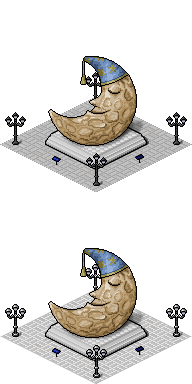
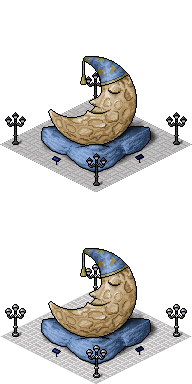
CHG: Moonmonument got snugly pillow

Changed region(s): [[0.1875, 0.8125, 0.8438, 0.9688], [0.1875, 0.3125, 0.8438, 0.4688]]

diff --git a/LICENSE.md b/LICENSE.md
@@ -1,3 +1,20 @@
+# Human-readable summary
+
+## CC BY-SA 3.0
+You are free to
+### share
+- copy and redistribute the material in any medium or format
+### adapt
+- remix, transform, and build upon the material for any purpose, even commercially.
+
+under the following terms:
+### Attribution
+- You must give appropriate credit, provide a link to the license, and indicate if changes were made. You may do so in any reasonable manner, but not in any way that suggests the licensor endorses you or your use.
+### ShareAlike
+- If you remix, transform, or build upon the material, you must distribute your contributions under the same license as the original.
+    
+
+
 # License
 
 THE WORK (AS DEFINED BELOW) IS PROVIDED UNDER THE TERMS OF THIS CREATIVE COMMONS PUBLIC LICENSE ("CCPL" OR "LICENSE"). THE WORK IS PROTECTED BY COPYRIGHT AND/OR OTHER APPLICABLE LAW. ANY USE OF THE WORK OTHER THAN AS AUTHORIZED UNDER THIS LICENSE OR COPYRIGHT LAW IS PROHIBITED.
@@ -6,16 +23,16 @@ BY EXERCISING ANY RIGHTS TO THE WORK PROVIDED HERE, YOU ACCEPT AND AGREE TO BE B
 
 ## 1. Definitions
 
-"Adaptation" means a work based upon the Work, or upon the Work and other pre-existing works, such as a translation, adaptation, derivative work, arrangement of music or other alterations of a literary or artistic work, or phonogram or performance and includes cinematographic adaptations or any other form in which the Work may be recast, transformed, or adapted including in any form recognizably derived from the original, except that a work that constitutes a Collection will not be considered an Adaptation for the purpose of this License. For the avoidance of doubt, where the Work is a musical work, performance or phonogram, the synchronization of the Work in timed-relation with a moving image ("synching") will be considered an Adaptation for the purpose of this License.
-"Collection" means a collection of literary or artistic works, such as encyclopedias and anthologies, or performances, phonograms or broadcasts, or other works or subject matter other than works listed in Section 1(g) below, which, by reason of the selection and arrangement of their contents, constitute intellectual creations, in which the Work is included in its entirety in unmodified form along with one or more other contributions, each constituting separate and independent works in themselves, which together are assembled into a collective whole. A work that constitutes a Collection will not be considered an Adaptation (as defined above) for the purposes of this License.
-"Distribute" means to make available to the public the original and copies of the Work or Adaptation, as appropriate, through sale or other transfer of ownership.
-"License Elements" means the following high-level license attributes as selected by Licensor and indicated in the title of this License: Attribution, Noncommercial, ShareAlike.
-"Licensor" means the individual, individuals, entity or entities that offer(s) the Work under the terms of this License.
-"Original Author" means, in the case of a literary or artistic work, the individual, individuals, entity or entities who created the Work or if no individual or entity can be identified, the publisher; and in addition (i) in the case of a performance the actors, singers, musicians, dancers, and other persons who act, sing, deliver, declaim, play in, interpret or otherwise perform literary or artistic works or expressions of folklore; (ii) in the case of a phonogram the producer being the person or legal entity who first fixes the sounds of a performance or other sounds; and, (iii) in the case of broadcasts, the organization that transmits the broadcast.
-"Work" means the literary and/or artistic work offered under the terms of this License including without limitation any production in the literary, scientific and artistic domain, whatever may be the mode or form of its expression including digital form, such as a book, pamphlet and other writing; a lecture, address, sermon or other work of the same nature; a dramatic or dramatico-musical work; a choreographic work or entertainment in dumb show; a musical composition with or without words; a cinematographic work to which are assimilated works expressed by a process analogous to cinematography; a work of drawing, painting, architecture, sculpture, engraving or lithography; a photographic work to which are assimilated works expressed by a process analogous to photography; a work of applied art; an illustration, map, plan, sketch or three-dimensional work relative to geography, topography, architecture or science; a performance; a broadcast; a phonogram; a compilation of data to the extent it is protected as a copyrightable work; or a work performed by a variety or circus performer to the extent it is not otherwise considered a literary or artistic work.
-"You" means an individual or entity exercising rights under this License who has not previously violated the terms of this License with respect to the Work, or who has received express permission from the Licensor to exercise rights under this License despite a previous violation.
-"Publicly Perform" means to perform public recitations of the Work and to communicate to the public those public recitations, by any means or process, including by wire or wireless means or public digital performances; to make available to the public Works in such a way that members of the public may access these Works from a place and at a place individually chosen by them; to perform the Work to the public by any means or process and the communication to the public of the performances of the Work, including by public digital performance; to broadcast and rebroadcast the Work by any means including signs, sounds or images.
-"Reproduce" means to make copies of the Work by any means including without limitation by sound or visual recordings and the right of fixation and reproducing fixations of the Work, including storage of a protected performance or phonogram in digital form or other electronic medium.
+- "Adaptation" means a work based upon the Work, or upon the Work and other pre-existing works, such as a translation, adaptation, derivative work, arrangement of music or other alterations of a literary or artistic work, or phonogram or performance and includes cinematographic adaptations or any other form in which the Work may be recast, transformed, or adapted including in any form recognizably derived from the original, except that a work that constitutes a Collection will not be considered an Adaptation for the purpose of this License. For the avoidance of doubt, where the Work is a musical work, performance or phonogram, the synchronization of the Work in timed-relation with a moving image ("synching") will be considered an Adaptation for the purpose of this License.
+- "Collection" means a collection of literary or artistic works, such as encyclopedias and anthologies, or performances, phonograms or broadcasts, or other works or subject matter other than works listed in Section 1(g) below, which, by reason of the selection and arrangement of their contents, constitute intellectual creations, in which the Work is included in its entirety in unmodified form along with one or more other contributions, each constituting separate and independent works in themselves, which together are assembled into a collective whole. A work that constitutes a Collection will not be considered an Adaptation (as defined above) for the purposes of this License.
+- "Distribute" means to make available to the public the original and copies of the Work or Adaptation, as appropriate, through sale or other transfer of ownership.
+- "License Elements" means the following high-level license attributes as selected by Licensor and indicated in the title of this License: Attribution, Noncommercial, ShareAlike.
+- "Licensor" means the individual, individuals, entity or entities that offer(s) the Work under the terms of this License.
+- "Original Author" means, in the case of a literary or artistic work, the individual, individuals, entity or entities who created the Work or if no individual or entity can be identified, the publisher; and in addition (i) in the case of a performance the actors, singers, musicians, dancers, and other persons who act, sing, deliver, declaim, play in, interpret or otherwise perform literary or artistic works or expressions of folklore; (ii) in the case of a phonogram the producer being the person or legal entity who first fixes the sounds of a performance or other sounds; and, (iii) in the case of broadcasts, the organization that transmits the broadcast.
+- "Work" means the literary and/or artistic work offered under the terms of this License including without limitation any production in the literary, scientific and artistic domain, whatever may be the mode or form of its expression including digital form, such as a book, pamphlet and other writing; a lecture, address, sermon or other work of the same nature; a dramatic or dramatico-musical work; a choreographic work or entertainment in dumb show; a musical composition with or without words; a cinematographic work to which are assimilated works expressed by a process analogous to cinematography; a work of drawing, painting, architecture, sculpture, engraving or lithography; a photographic work to which are assimilated works expressed by a process analogous to photography; a work of applied art; an illustration, map, plan, sketch or three-dimensional work relative to geography, topography, architecture or science; a performance; a broadcast; a phonogram; a compilation of data to the extent it is protected as a copyrightable work; or a work performed by a variety or circus performer to the extent it is not otherwise considered a literary or artistic work.
+- "You" means an individual or entity exercising rights under this License who has not previously violated the terms of this License with respect to the Work, or who has received express permission from the Licensor to exercise rights under this License despite a previous violation.
+- "Publicly Perform" means to perform public recitations of the Work and to communicate to the public those public recitations, by any means or process, including by wire or wireless means or public digital performances; to make available to the public Works in such a way that members of the public may access these Works from a place and at a place individually chosen by them; to perform the Work to the public by any means or process and the communication to the public of the performances of the Work, including by public digital performance; to broadcast and rebroadcast the Work by any means including signs, sounds or images.
+- "Reproduce" means to make copies of the Work by any means including without limitation by sound or visual recordings and the right of fixation and reproducing fixations of the Work, including storage of a protected performance or phonogram in digital form or other electronic medium.
 
 
 ## 2. Fair Dealing Rights.
@@ -26,26 +43,29 @@ Nothing in this License is intended to reduce, limit, or restrict any uses free 
 
 Subject to the terms and conditions of this License, Licensor hereby grants You a worldwide, royalty-free, non-exclusive, perpetual (for the duration of the applicable copyright) license to exercise the rights in the Work as stated below:
 
-to Reproduce the Work, to incorporate the Work into one or more Collections, and to Reproduce the Work as incorporated in the Collections;
-to create and Reproduce Adaptations provided that any such Adaptation, including any translation in any medium, takes reasonable steps to clearly label, demarcate or otherwise identify that changes were made to the original Work. For example, a translation could be marked "The original work was translated from English to Spanish," or a modification could indicate "The original work has been modified.";
-to Distribute and Publicly Perform the Work including as incorporated in Collections; and,
-to Distribute and Publicly Perform Adaptations.
+- to Reproduce the Work, to incorporate the Work into one or more Collections, and to Reproduce the Work as incorporated in the Collections;
+- to create and Reproduce Adaptations provided that any such Adaptation, including any translation in any medium, takes reasonable steps to clearly label, demarcate or otherwise identify that changes were made to the original Work. For example, a translation could be marked "The original work was translated from English to Spanish," or a modification could indicate "The original work has been modified.";
+- to Distribute and Publicly Perform the Work including as incorporated in Collections; and,
+- to Distribute and Publicly Perform Adaptations.
 The above rights may be exercised in all media and formats whether now known or hereafter devised. The above rights include the right to make such modifications as are technically necessary to exercise the rights in other media and formats. Subject to Section 8(f), all rights not expressly granted by Licensor are hereby reserved, including but not limited to the rights described in Section 4(e).
 
 ## 4. Restrictions.
 
 The license granted in Section 3 above is expressly made subject to and limited by the following restrictions:
 
-You may Distribute or Publicly Perform the Work only under the terms of this License. You must include a copy of, or the Uniform Resource Identifier (URI) for, this License with every copy of the Work You Distribute or Publicly Perform. You may not offer or impose any terms on the Work that restrict the terms of this License or the ability of the recipient of the Work to exercise the rights granted to that recipient under the terms of the License. You may not sublicense the Work. You must keep intact all notices that refer to this License and to the disclaimer of warranties with every copy of the Work You Distribute or Publicly Perform. When You Distribute or Publicly Perform the Work, You may not impose any effective technological measures on the Work that restrict the ability of a recipient of the Work from You to exercise the rights granted to that recipient under the terms of the License. This Section 4(a) applies to the Work as incorporated in a Collection, but this does not require the Collection apart from the Work itself to be made subject to the terms of this License. If You create a Collection, upon notice from any Licensor You must, to the extent practicable, remove from the Collection any credit as required by Section 4(d), as requested. If You create an Adaptation, upon notice from any Licensor You must, to the extent practicable, remove from the Adaptation any credit as required by Section 4(d), as requested.
-You may Distribute or Publicly Perform an Adaptation only under: (i) the terms of this License; (ii) a later version of this License with the same License Elements as this License; (iii) a Creative Commons jurisdiction license (either this or a later license version) that contains the same License Elements as this License (e.g., Attribution-NonCommercial-ShareAlike 3.0 US) ("Applicable License"). You must include a copy of, or the URI, for Applicable License with every copy of each Adaptation You Distribute or Publicly Perform. You may not offer or impose any terms on the Adaptation that restrict the terms of the Applicable License or the ability of the recipient of the Adaptation to exercise the rights granted to that recipient under the terms of the Applicable License. You must keep intact all notices that refer to the Applicable License and to the disclaimer of warranties with every copy of the Work as included in the Adaptation You Distribute or Publicly Perform. When You Distribute or Publicly Perform the Adaptation, You may not impose any effective technological measures on the Adaptation that restrict the ability of a recipient of the Adaptation from You to exercise the rights granted to that recipient under the terms of the Applicable License. This Section 4(b) applies to the Adaptation as incorporated in a Collection, but this does not require the Collection apart from the Adaptation itself to be made subject to the terms of the Applicable License.
-You may not exercise any of the rights granted to You in Section 3 above in any manner that is primarily intended for or directed toward commercial advantage or private monetary compensation. The exchange of the Work for other copyrighted works by means of digital file-sharing or otherwise shall not be considered to be intended for or directed toward commercial advantage or private monetary compensation, provided there is no payment of any monetary compensation in con-nection with the exchange of copyrighted works.
-If You Distribute, or Publicly Perform the Work or any Adaptations or Collections, You must, unless a request has been made pursuant to Section 4(a), keep intact all copyright notices for the Work and provide, reasonable to the medium or means You are utilizing: (i) the name of the Original Author (or pseudonym, if applicable) if supplied, and/or if the Original Author and/or Licensor designate another party or parties (e.g., a sponsor institute, publishing entity, journal) for attribution ("Attribution Parties") in Licensor's copyright notice, terms of service or by other reasonable means, the name of such party or parties; (ii) the title of the Work if supplied; (iii) to the extent reasonably practicable, the URI, if any, that Licensor specifies to be associated with the Work, unless such URI does not refer to the copyright notice or licensing information for the Work; and, (iv) consistent with Section 3(b), in the case of an Adaptation, a credit identifying the use of the Work in the Adaptation (e.g., "French translation of the Work by Original Author," or "Screenplay based on original Work by Original Author"). The credit required by this Section 4(d) may be implemented in any reasonable manner; provided, however, that in the case of a Adaptation or Collection, at a minimum such credit will appear, if a credit for all contributing authors of the Adaptation or Collection appears, then as part of these credits and in a manner at least as prominent as the credits for the other contributing authors. For the avoidance of doubt, You may only use the credit required by this Section for the purpose of attribution in the manner set out above and, by exercising Your rights under this License, You may not implicitly or explicitly assert or imply any connection with, sponsorship or endorsement by the Original Author, Licensor and/or Attribution Parties, as appropriate, of You or Your use of the Work, without the separate, express prior written permission of the Original Author, Licensor and/or Attribution Parties.
-For the avoidance of doubt:
+- You may Distribute or Publicly Perform the Work only under the terms of this License. You must include a copy of, or the Uniform Resource Identifier (URI) for, this License with every copy of the Work You Distribute or Publicly Perform. You may not offer or impose any terms on the Work that restrict the terms of this License or the ability of the recipient of the Work to exercise the rights granted to that recipient under the terms of the License. You may not sublicense the Work. You must keep intact all notices that refer to this License and to the disclaimer of warranties with every copy of the Work You Distribute or Publicly Perform. When You Distribute or Publicly Perform the Work, You may not impose any effective technological measures on the Work that restrict the ability of a recipient of the Work from You to exercise the rights granted to that recipient under the terms of the License. This Section 4(a) applies to the Work as incorporated in a Collection, but this does not require the Collection apart from the Work itself to be made subject to the terms of this License. If You create a Collection, upon notice from any Licensor You must, to the extent practicable, remove from the Collection any credit as required by Section 4(d), as requested. If You create an Adaptation, upon notice from any Licensor You must, to the extent practicable, remove from the Adaptation any credit as required by Section 4(d), as requested.
+- You may Distribute or Publicly Perform an Adaptation only under: (i) the terms of this License; (ii) a later version of this License with the same License Elements as this License; (iii) a Creative Commons jurisdiction license (either this or a later license version) that contains the same License Elements as this License (e.g., Attribution-NonCommercial-ShareAlike 3.0 US) ("Applicable License"). You must include a copy of, or the URI, for Applicable License with every copy of each Adaptation You Distribute or Publicly Perform. You may not offer or impose any terms on the Adaptation that restrict the terms of the Applicable License or the ability of the recipient of the Adaptation to exercise the rights granted to that recipient under the terms of the Applicable License. You must keep intact all notices that refer to the Applicable License and to the disclaimer of warranties with every copy of the Work as included in the Adaptation You Distribute or Publicly Perform. When You Distribute or Publicly Perform the Adaptation, You may not impose any effective technological measures on the Adaptation that restrict the ability of a recipient of the Adaptation from You to exercise the rights granted to that recipient under the terms of the Applicable License. This Section 4(b) applies to the Adaptation as incorporated in a Collection, but this does not require the Collection apart from the Adaptation itself to be made subject to the terms of the Applicable License.
+- You may not exercise any of the rights granted to You in Section 3 above in any manner that is primarily intended for or directed toward commercial advantage or private monetary compensation. The exchange of the Work for other copyrighted works by means of digital file-sharing or otherwise shall not be considered to be intended for or directed toward commercial advantage or private monetary compensation, provided there is no payment of any monetary compensation in con-nection with the exchange of copyrighted works.
+- If You Distribute, or Publicly Perform the Work or any Adaptations or Collections, You must, unless a request has been made pursuant to Section 4(a), keep intact all copyright notices for the Work and provide, reasonable to the medium or means You are utilizing: (i) the name of the Original Author (or pseudonym, if applicable) if supplied, and/or if the Original Author and/or Licensor designate another party or parties (e.g., a sponsor institute, publishing entity, journal) for attribution ("Attribution Parties") in Licensor's copyright notice, terms of service or by other reasonable means, the name of such party or parties; (ii) the title of the Work if supplied; (iii) to the extent reasonably practicable, the URI, if any, that Licensor specifies to be associated with the Work, unless such URI does not refer to the copyright notice or licensing information for the Work; and, (iv) consistent with Section 3(b), in the case of an Adaptation, a credit identifying the use of the Work in the Adaptation (e.g., "French translation of the Work by Original Author," or "Screenplay based on original Work by Original Author"). The credit required by this Section 4(d) may be implemented in any reasonable manner; provided, however, that in the case of a Adaptation or Collection, at a minimum such credit will appear, if a credit for all contributing authors of the Adaptation or Collection appears, then as part of these credits and in a manner at least as prominent as the credits for the other contributing authors. For the avoidance of doubt, You may only use the credit required by this Section for the purpose of attribution in the manner set out above and, by exercising Your rights under this License, You may not implicitly or explicitly assert or imply any connection with, sponsorship or endorsement by the Original Author, Licensor and/or Attribution Parties, as appropriate, of You or Your use of the Work, without the separate, express prior written permission of the Original Author, Licensor and/or Attribution Parties.
+- for the avoidance of doubt:
 
-Non-waivable Compulsory License Schemes. In those jurisdictions in which the right to collect royalties through any statutory or compulsory licensing scheme cannot be waived, the Licensor reserves the exclusive right to collect such royalties for any exercise by You of the rights granted under this License;
-Waivable Compulsory License Schemes. In those jurisdictions in which the right to collect royalties through any statutory or compulsory licensing scheme can be waived, the Licensor reserves the exclusive right to collect such royalties for any exercise by You of the rights granted under this License if Your exercise of such rights is for a purpose or use which is otherwise than noncommercial as permitted under Section 4(c) and otherwise waives the right to collect royalties through any statutory or compulsory licensing scheme; and,
-Voluntary License Schemes. The Licensor reserves the right to collect royalties, whether individually or, in the event that the Licensor is a member of a collecting society that administers voluntary licensing schemes, via that society, from any exercise by You of the rights granted under this License that is for a purpose or use which is otherwise than noncommercial as permitted under Section 4(c).
-Except as otherwise agreed in writing by the Licensor or as may be otherwise permitted by applicable law, if You Reproduce, Distribute or Publicly Perform the Work either by itself or as part of any Adaptations or Collections, You must not distort, mutilate, modify or take other derogatory action in relation to the Work which would be prejudicial to the Original Author's honor or reputation. Licensor agrees that in those jurisdictions (e.g. Japan), in which any exercise of the right granted in Section 3(b) of this License (the right to make Adaptations) would be deemed to be a distortion, mutilation, modification or other derogatory action prejudicial to the Original Author's honor and reputation, the Licensor will waive or not assert, as appropriate, this Section, to the fullest extent permitted by the applicable national law, to enable You to reasonably exercise Your right under Section 3(b) of this License (right to make Adaptations) but not otherwise.
+    ##### Non-waivable Compulsory License Schemes.
+    In those jurisdictions in which the right to collect royalties through any statutory or compulsory licensing scheme cannot be waived, the Licensor reserves the exclusive right to collect such royalties for any exercise by You of the rights granted under this License;
+    ##### Waivable Compulsory License Schemes.
+    In those jurisdictions in which the right to collect royalties through any statutory or compulsory licensing scheme can be waived, the Licensor reserves the exclusive right to collect such royalties for any exercise by You of the rights granted under this License if Your exercise of such rights is for a purpose or use which is otherwise than noncommercial as permitted under Section 4(c) and otherwise waives the right to collect royalties through any statutory or compulsory licensing scheme; and,
+    ##### Voluntary License Schemes.
+   The Licensor reserves the right to collect royalties, whether individually or, in the event that the Licensor is a member of a collecting society that administers voluntary licensing schemes, via that society, from any exercise by You of the rights granted under this License that is for a purpose or use which is otherwise than noncommercial as permitted under Section 4(c).
+- Except as otherwise agreed in writing by the Licensor or as may be otherwise permitted by applicable law, if You Reproduce, Distribute or Publicly Perform the Work either by itself or as part of any Adaptations or Collections, You must not distort, mutilate, modify or take other derogatory action in relation to the Work which would be prejudicial to the Original Author's honor or reputation. Licensor agrees that in those jurisdictions (e.g. Japan), in which any exercise of the right granted in Section 3(b) of this License (the right to make Adaptations) would be deemed to be a distortion, mutilation, modification or other derogatory action prejudicial to the Original Author's honor and reputation, the Licensor will waive or not assert, as appropriate, this Section, to the fullest extent permitted by the applicable national law, to enable You to reasonably exercise Your right under Section 3(b) of this License (right to make Adaptations) but not otherwise.
 
 ## 5. Representations, Warranties and Disclaimer
 
@@ -57,15 +77,14 @@ EXCEPT TO THE EXTENT REQUIRED BY APPLICABLE LAW, IN NO EVENT WILL LICENSOR BE LI
 
 ## 7. Termination
 
-This License and the rights granted hereunder will terminate automatically upon any breach by You of the terms of this License. Individuals or entities who have received Adaptations or Collections from You under this License, however, will not have their licenses terminated provided such individuals or entities remain in full compliance with those licenses. Sections 1, 2, 5, 6, 7, and 8 will survive any termination of this License.
-Subject to the above terms and conditions, the license granted here is perpetual (for the duration of the applicable copyright in the Work). Notwithstanding the above, Licensor reserves the right to release the Work under different license terms or to stop distributing the Work at any time; provided, however that any such election will not serve to withdraw this License (or any other license that has been, or is required to be, granted under the terms of this License), and this License will continue in full force and effect unless terminated as stated above.
+- This License and the rights granted hereunder will terminate automatically upon any breach by You of the terms of this License. Individuals or entities who have received Adaptations or Collections from You under this License, however, will not have their licenses terminated provided such individuals or entities remain in full compliance with those licenses. Sections 1, 2, 5, 6, 7, and 8 will survive any termination of this License.
+- Subject to the above terms and conditions, the license granted here is perpetual (for the duration of the applicable copyright in the Work). Notwithstanding the above, Licensor reserves the right to release the Work under different license terms or to stop distributing the Work at any time; provided, however that any such election will not serve to withdraw this License (or any other license that has been, or is required to be, granted under the terms of this License), and this License will continue in full force and effect unless terminated as stated above.
 
 ## 8. Miscellaneous
 
-Each time You Distribute or Publicly Perform the Work or a Collection, the Licensor offers to the recipient a license to the Work on the same terms and conditions as the license granted to You under this License.
-Each time You Distribute or Publicly Perform an Adaptation, Licensor offers to the recipient a license to the original Work on the same terms and conditions as the license granted to You under this License.
-If any provision of this License is invalid or unenforceable under applicable law, it shall not affect the validity or enforceability of the remainder of the terms of this License, and without further action by the parties to this agreement, such provision shall be reformed to the minimum extent necessary to make such provision valid and enforceable.
-No term or provision of this License shall be deemed waived and no breach consented to unless such waiver or consent shall be in writing and signed by the party to be charged with such waiver or consent.
-This License constitutes the entire agreement between the parties with respect to the Work licensed here. There are no understandings, agreements or representations with respect to the Work not specified here. Licensor shall not be bound by any additional provisions that may appear in any communication from You. This License may not be modified without the mutual written agreement of the Licensor and You.
-The rights granted under, and the subject matter referenced, in this License were drafted utilizing the terminology of the Berne Convention for the Protection of Literary and Artistic Works (as amended on September 28, 1979), the Rome Convention of 1961, the WIPO Copyright Treaty of 1996, the WIPO Performances and Phonograms Treaty of 1996 and the Universal Copyright Convention (as revised on July 24, 1971). These rights and subject matter take effect in the relevant jurisdiction in which the License terms are sought to be enforced according to the corresponding provisions of the implementation of those treaty provisions in the applicable national law. If the standard suite of rights granted under applicable copyright law includes additional rights not granted under this License, such additional rights are deemed to be included in the License; this License is not intended to restrict the license of any rights under applicable law.
-
+- Each time You Distribute or Publicly Perform the Work or a Collection, the Licensor offers to the recipient a license to the Work on the same terms and conditions as the license granted to You under this License.
+- Each time You Distribute or Publicly Perform an Adaptation, Licensor offers to the recipient a license to the original Work on the same terms and conditions as the license granted to You under this License.
+- If any provision of this License is invalid or unenforceable under applicable law, it shall not affect the validity or enforceability of the remainder of the terms of this License, and without further action by the parties to this agreement, such provision shall be reformed to the minimum extent necessary to make such provision valid and enforceable.
+- No term or provision of this License shall be deemed waived and no breach consented to unless such waiver or consent shall be in writing and signed by the party to be charged with such waiver or consent.
+- This License constitutes the entire agreement between the parties with respect to the Work licensed here. There are no understandings, agreements or representations with respect to the Work not specified here. Licensor shall not be bound by any additional provisions that may appear in any communication from You. This License may not be modified without the mutual written agreement of the Licensor and You.
+- The rights granted under, and the subject matter referenced, in this License were drafted utilizing the terminology of the Berne Convention for the Protection of Literary and Artistic Works (as amended on September 28, 1979), the Rome Convention of 1961, the WIPO Copyright Treaty of 1996, the WIPO Performances and Phonograms Treaty of 1996 and the Universal Copyright Convention (as revised on July 24, 1971). These rights and subject matter take effect in the relevant jurisdiction in which the License terms are sought to be enforced according to the corresponding provisions of the implementation of those treaty provisions in the applicable national law. If the standard suite of rights granted under applicable copyright law includes additional rights not granted under this License, such additional rights are deemed to be included in the License; this License is not intended to restrict the license of any rights under applicable law.
